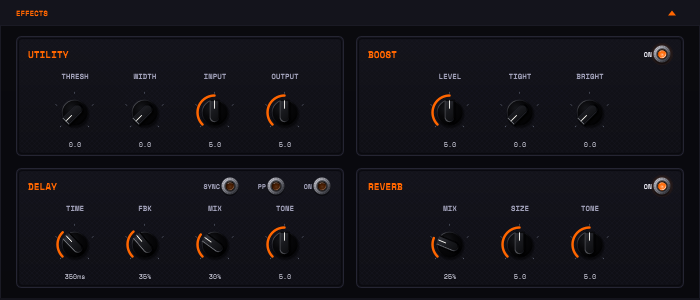
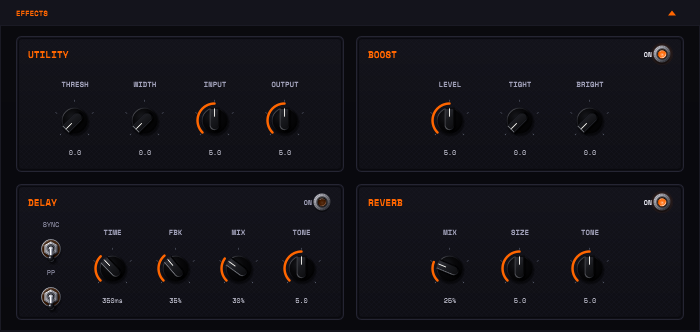
feat(gui): DELAY's SYNC and PP as bat toggles stacked left of TIME
SYNC and PP now use the amp row's Style::Switch bat toggles instead of
title-row jewels, stacked SYNC over PP down the DELAY card's left
before the TIME knob. The stack sets the card height (kCardH 136,
panelHeight 304); every card shares it, so the knob rows stay level.

diff --git a/src/gui/EffectsPanel.cpp b/src/gui/EffectsPanel.cpp
@@ -16,7 +16,7 @@ namespace sr {
 namespace {
     constexpr int kCardGap = 12;
     constexpr int kCardW   = 328;  // two fit the 680 px inside the panel margin
-    constexpr int kCardH   = 120;  // title row + one knob row
+    constexpr int kCardH   = 136;  // title row + one knob row (or DELAY's switch stack)
 
     // Card chrome metrics, shared by paint() and resized().
     constexpr int kCardPadY = 6;
@@ -42,7 +42,17 @@ namespace {
     constexpr auto kCardToggleStyle = ToggleSwitch::Style::Jewel;
     constexpr int  kToggleH = ToggleSwitch::minHeight(kCardToggleStyle);
     constexpr int  kToggleW = 40;  // a two-letter label + the jewel and its glow
-    constexpr int  kSyncToggleW = 56;  // "SYNC": two more letters
+
+    // DELAY's SYNC and PP are the amp row's bat toggles, stacked SYNC over PP
+    // on the card's left, before TIME. The stack is the tallest thing in any
+    // card, so it sets kCardH; every card shares that height, so all four
+    // knob rows stay on the same baseline.
+    constexpr auto kStackStyle = ToggleSwitch::Style::Switch;
+    constexpr int  kStackW = 50;   // the amp row's toggle width
+    constexpr int  kStackH = 2 * ToggleSwitch::minHeight(kStackStyle);
+    static_assert(kCardH >= 2 * kCardPadY + kToggleH + kRowGap + kStackH,
+                  "kCardH leaves the DELAY card too little for its SYNC/PP stack: "
+                  "the bat toggles get clipped and look dead");
     static_assert(kToggleH >= ToggleSwitch::minHeight(kCardToggleStyle),
                   "card toggle row is shorter than a ToggleSwitch can paint into: "
                   "the jewel gets clipped and the toggle looks dead");
@@ -62,8 +72,10 @@ EffectsPanel::EffectsPanel()
 
     // Jewels: small lit lamps beside the card title, the same glass as the
     // faceplate's pilot lamp — see kCardToggleStyle, which the layout sizes against.
-    for (auto* t : { &boostTgl, &delayTgl, &reverbTgl, &delayPP, &delaySyncTgl })
+    for (auto* t : { &boostTgl, &delayTgl, &reverbTgl })
         t->setStyle(kCardToggleStyle);
+    for (auto* t : { &delaySyncTgl, &delayPP })
+        t->setStyle(kStackStyle);
 
     for (auto* k : { &gateThresh, &width, &inputLevel, &outputLevel,
                      &boostLevel, &boostTight, &boostBright,
@@ -171,19 +183,20 @@ void EffectsPanel::resized()
     layoutCard(cardBounds(area, 1, 0), boostTgl,  { &boostLevel, &boostTight, &boostBright });
     layoutCard(cardBounds(area, 1, 1), reverbTgl, { &reverbMix, &reverbSize, &reverbTone });
 
-    // DELAY card: PING-PONG and SYNC share the title row with ON. SYNC turns
-    // the TIME knob into the division selector, so the card needs no row of
-    // its own for the divisions and its knobs line up with the other cards'.
+    // DELAY card: ON in the title row like the others; SYNC over PP as bat
+    // toggles down the left, just before TIME (SYNC turns TIME into the
+    // division selector). The four knobs share what is left of the row.
     auto delayCard  = cardBounds(area, 0, 1);
     auto delayInner = delayCard.reduced(10, kCardPadY);
     auto titleRow   = delayInner.removeFromTop(kToggleH);
     delayTgl.setBounds(titleRow.removeFromRight(kToggleW));
-    titleRow.removeFromRight(6);
-    delayPP.setBounds(titleRow.removeFromRight(kToggleW));
-    titleRow.removeFromRight(6);
-    delaySyncTgl.setBounds(titleRow.removeFromRight(kSyncToggleW));
 
     delayInner.removeFromTop(kRowGap);
+    auto stack = delayInner.removeFromLeft(kStackW)
+                           .withSizeKeepingCentre(kStackW, kStackH);
+    delaySyncTgl.setBounds(stack.removeFromTop(kStackH / 2));
+    delayPP.setBounds(stack);
+    delayInner.removeFromLeft(4);
     layoutKnobRow(delayInner, { &delayTime, &delayFb, &delayMix, &delayTone });
 }
 

diff --git a/src/gui/EffectsPanel.h b/src/gui/EffectsPanel.h
@@ -17,13 +17,14 @@ public:
     void paint(juce::Graphics&) override;
     void resized() override;
 
-    // Two card rows sized to the scaled pointer knobs (name + dial + engraved
-    // value, see kKnobH) plus each card's jewel-toggle title row:
+    // Two card rows, each a jewel-toggle title row over the tallest thing a
+    // card holds — DELAY's SYNC/PP bat-toggle stack, which out-measures the
+    // scaled pointer knobs (kKnobH):
     // 2 × kCardH + kCardGap + the 10 px margin either side. Kept in sync with
     // the card metrics in EffectsPanel.cpp, which static_assert it — a
     // too-short panel shows up as knob values drawn past the bottom edge and
     // silently clipped.
-    static constexpr int panelHeight = 272;
+    static constexpr int panelHeight = 304;
 
     // Toggles (the UTILITY card's gate/width knobs self-gate — no toggle)
     ToggleSwitch& boostToggle()  { return boostTgl; }

diff --git a/CLAUDE.md b/CLAUDE.md
@@ -137,7 +137,7 @@ cmake -B build -DSR_BUILD_TESTS=ON # Build with tests
 - **SettingsPanel.h/.cpp** — Overlay (340px) with UI preferences + About section
 - **IRLoaderPanel.h/.cpp** — Scrollable IR list, waveform display, drag-and-drop (category tabs per UI spec §5.7 not yet implemented — user-IR-only today)
 - **IRWaveformDisplay.h/.cpp** — Waveform plot with envelope fill
-- **EffectsPanel.h/.cpp** — 2×2 card grid (UTILITY / BOOST / DELAY / REVERB), in the faceplate's hardware style: each card is an `AmpFaceplate::paintPlate` panel, the knobs are the amp row's pointer knobs at `setScale(0.7)` (name on top, engraved value, 70×80px), and ON/PP/SYNC are `Style::Jewel` toggles beside the card title. Every card is a title row + one knob row (`panelHeight` 272). DELAY has no division row: **SYNC** turns its TIME knob into the division selector — `DelayTimeAttachment` (`PluginEditor.h`) binds the one knob to `DELAY_TIME` with SYNC off and to `DELAY_SYNC_DIV` with it on (one detent per division, `syncDivisionFromKnob()` in `TempoSync.h`; MANUAL, index 0, *is* SYNC off), and keeps the last division in the `delayLastSyncDiv` state property. The parameters are unchanged, so sessions and automation still load. The card metrics static_assert against `NotchKnob::stripHeight`, `ToggleSwitch::minHeight` and `panelHeight`
+- **EffectsPanel.h/.cpp** — 2×2 card grid (UTILITY / BOOST / DELAY / REVERB), in the faceplate's hardware style: each card is an `AmpFaceplate::paintPlate` panel, the knobs are the amp row's pointer knobs at `setScale(0.7)` (name on top, engraved value, 70×80px), and each card's ON is a `Style::Jewel` toggle beside its title. DELAY's **SYNC** and **PP** are the amp row's `Style::Switch` bat toggles, stacked SYNC over PP down the card's left before TIME; that stack (2 × `minHeight(Switch)`) is the tallest thing in any card and sets `kCardH` (136, `panelHeight` 304) — every card shares it so the knob rows stay level. DELAY has no division row: **SYNC** turns its TIME knob into the division selector — `DelayTimeAttachment` (`PluginEditor.h`) binds the one knob to `DELAY_TIME` with SYNC off and to `DELAY_SYNC_DIV` with it on (one detent per division, `syncDivisionFromKnob()` in `TempoSync.h`; MANUAL, index 0, *is* SYNC off), and keeps the last division in the `delayLastSyncDiv` state property. The parameters are unchanged, so sessions and automation still load. The card metrics static_assert against `NotchKnob::stripHeight`, `ToggleSwitch::minHeight` and `panelHeight`
 - **AmpFaceplate.h/.cpp** — the amp head's front panel behind GAIN/SHAPE/VOLUME: `paintPlate()` (raised gradient, grille-cloth weave, piping — shared with the EFFECTS cards), corner screws, and the glass pilot lamp `paintLamp()` (shared with the jewel toggles; `bloom` sets its glow radius)
 
 **Window strategy**: The window is sized to its content height (`kWindowW` 700 × `getContentHeight()`, times the UI scale) on every platform. `applyShapeMask()` — the name is historical — runs each animation frame and calls `setSize()` whenever the animated panel heights change; the size guard makes the steady state a no-op. The old approach (a max-height window clipped with the X11 Shape Extension) is gone: the compositor used the true window geometry for move constraints, so a window taller than the screen got pinned to the top edge and could not be dragged. Sizing to content does **not** clamp to the display work area, so tall panel combinations can still exceed the screen. On Linux the editor still keeps one cached X11 connection (`getX11Display()`) for `setWindowBackground()` and the compositor bypass.

diff --git a/tools/README.md b/tools/README.md
@@ -23,7 +23,7 @@ DI / test signal ──► sr_render ──► <id>.f32 + .json + .wav ──►
 | `sr_wobble.py` | Envelope modulation on a constant tone (free-running loops) | no | ✅ |
 | `sr_bloom.py` | Transient recovery — rebound after the decay ("delayed pluck") | no | ✅ |
 | `signoff.py` | Orchestrates renders → analysis → §4 gate table + exit code | no | ✅ end-to-end against a stub render |
-| `sr_editor_snapshot.cpp` | Paints the real editor offscreen to a PNG (the manual's screenshots in `resources/images/`). `sr_editor_snapshot out.png [fx] [ir] [adv] [off] [scale=N] [theme=N] [set=<paramID>:<0..1>]...`, run under `xvfb-run` (`set=` sets any parameter, e.g. `set=boostOn:1`; `effects-panel.png` is the `fx set=boostOn:1 set=reverbOn:1` render cropped to 0,270 700×300); links the full plugin source list (checked by `verify.sh`) | **yes** (`-DSR_BUILD_TOOLS=ON`) | ✅ Linux/Xvfb |
+| `sr_editor_snapshot.cpp` | Paints the real editor offscreen to a PNG (the manual's screenshots in `resources/images/`). `sr_editor_snapshot out.png [fx] [ir] [adv] [off] [scale=N] [theme=N] [set=<paramID>:<0..1>]...`, run under `xvfb-run` (`set=` sets any parameter, e.g. `set=boostOn:1`; `effects-panel.png` is the `fx set=boostOn:1 set=reverbOn:1` render cropped to 0,270 700×332); links the full plugin source list (checked by `verify.sh`) | **yes** (`-DSR_BUILD_TOOLS=ON`) | ✅ Linux/Xvfb |
 | `signoff_gates.json` | The §4 gates + test matrix as data (targets `TBM` until the Calibration Pass) | no | ✅ parses |
 
 > **Build note.** `sr_render` was unbuilt for a long time and had accumulated two

diff --git a/.agents/STATE.md b/.agents/STATE.md
@@ -30,7 +30,8 @@ _Updated 2026-10-29_
 7. Amp faceplate is on `main` (`src/gui/AmpFaceplate.*`): deep-ruby glass pilot lamp, satin pointer
    knobs with engraved values, chrome bat toggles on orange glass rings. The EFFECTS panel now uses
    the same hardware style (faceplate cards, 0.7× pointer knobs, orange glass jewel ON/PP toggles).
-   DELAY's sync-division row is now a SYNC jewel that turns TIME into the division knob.
+   DELAY's sync-division row is gone: SYNC and PP are bat toggles stacked left of TIME, and
+   SYNC turns TIME into the division knob.
    Owner still open: lamp colour, weave strength, keep the "POWER" label? Jewel size/colour OK?
 
 ## Decisions
@@ -50,7 +51,7 @@ _Updated 2026-10-29_
 - IR path: cab-mode switches dip (~6–95 ms by block size); bright IRs sit 1.2–1.5 dB under the
   built-in cab; long IRs lose their ring at the 8192 cap. GUI bugs are tracked in #37–#45.
 - GUI review 2026-10-28, still open: small low-contrast text (section titles, footer), window
-  can outgrow the screen with EFFECTS + IR LOADER open (EFFECTS is now 272 px, 12 px under its
+  can outgrow the screen with EFFECTS + IR LOADER open (EFFECTS is now 304 px, 20 px over its
   pre-restyle height). The REVERB/DELAY knob-row offset is gone with the sync row.
 - 13 commits on `main` and the docs plan's first commit carry the env email, not the noreply one;
   pre-rewrite commits stay reachable via closed PRs' `refs/pull/*` (only GitHub Support can purge).

diff --git a/CHANGELOG.md b/CHANGELOG.md
@@ -15,10 +15,10 @@ tagged release will collect everything below.
 
 ### Changed
 
-- DELAY: the row of sync-division buttons is gone. A small **SYNC** switch beside PP turns
-  the TIME knob into the division selector (1/16 to 1/2, one click per division); with SYNC
-  off it sets milliseconds as before. Saved sessions and automation are unaffected, and the
-  EFFECTS panel is 40 px shorter.
+- DELAY: the row of sync-division buttons is gone. A **SYNC** bat toggle, stacked over PP
+  on the card's left like the amp's 7W/CAB/PWR switches, turns the TIME knob into the
+  division selector (1/16 to 1/2, one click per division); with SYNC off it sets
+  milliseconds as before. Saved sessions and automation are unaffected.
 - **Projects that use a cabinet IR play louder: +5.4 to +13.1 dB, depending on the IR and
   sample rate.** Every IR is now level-matched to the built-in cabinet; before, IRs played
   about 11 dB quieter, and 3 dB louder at 96 kHz than at 48 kHz. Turn OUTPUT down, or the
